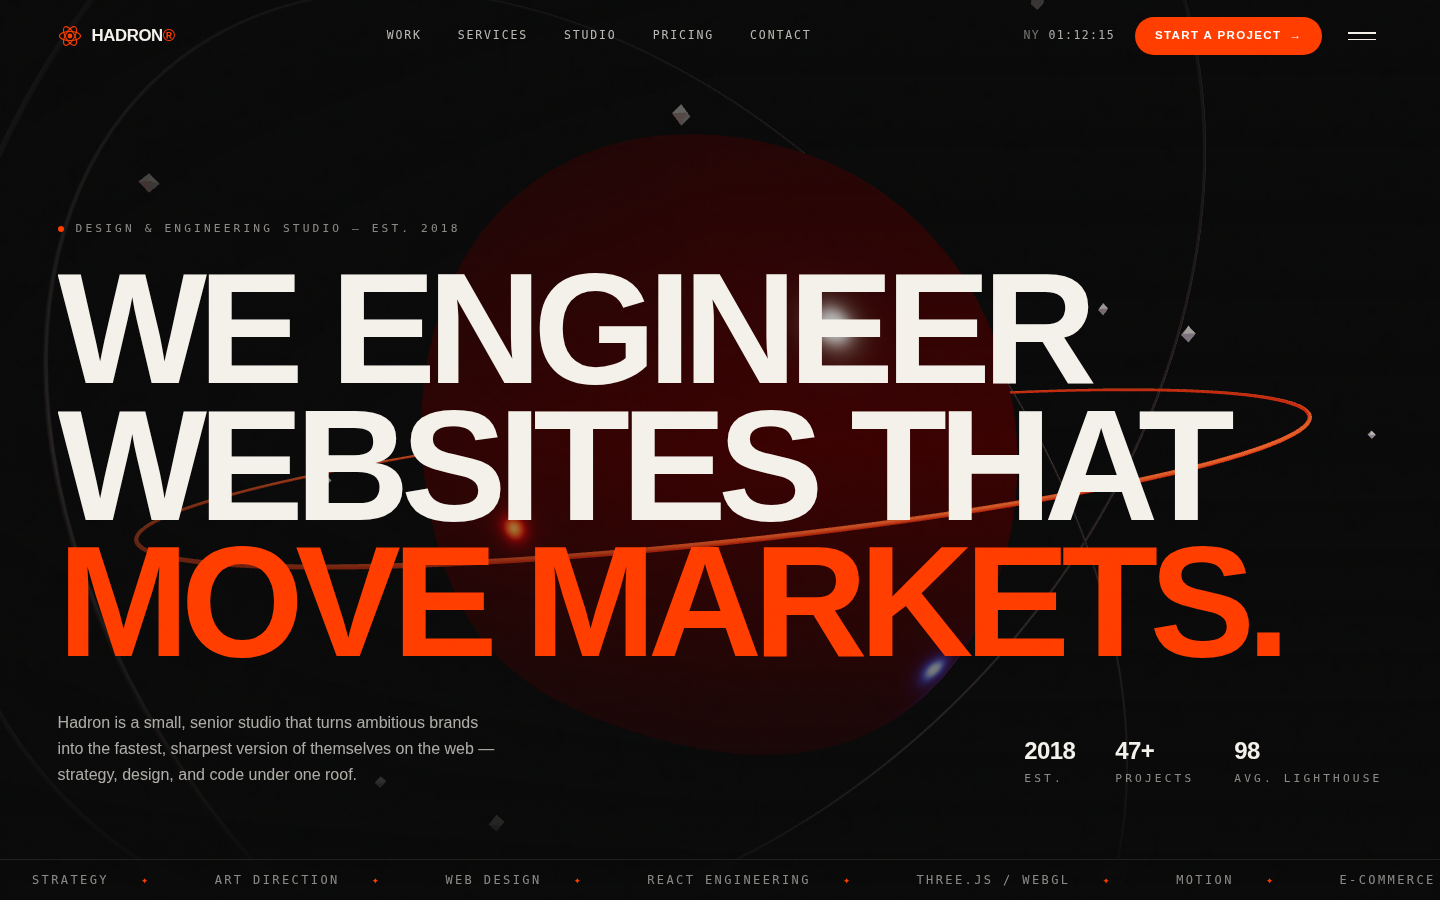
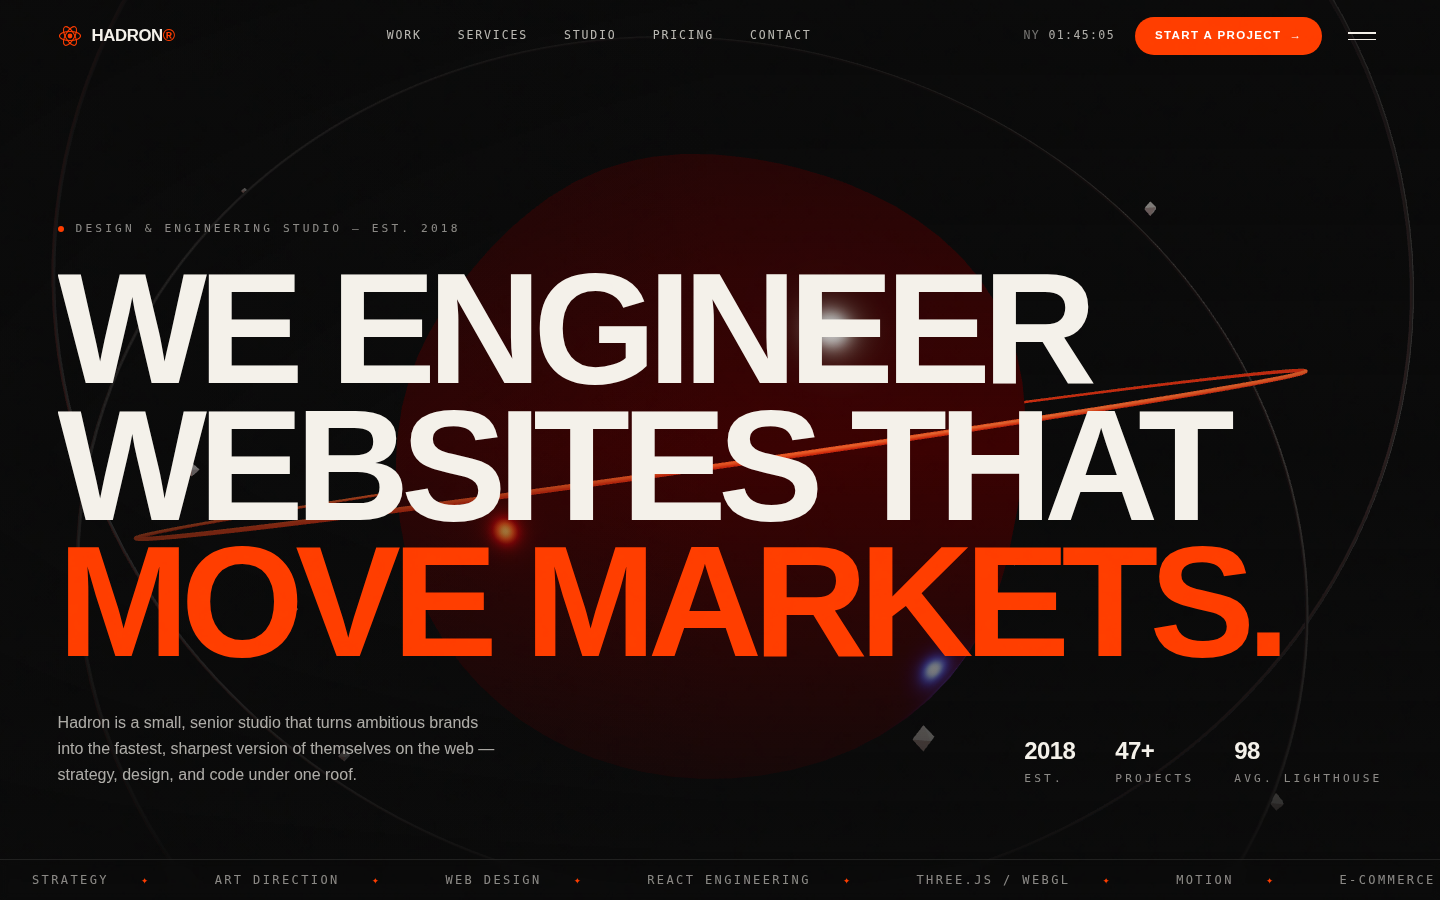
Polish pass: brand assets, SEO, a11y, and hero resilience
- Add favicon (SVG atom mark), OG/Twitter share image, web manifest, and
  richer social meta tags
- Add robots.txt and sitemap.xml
- Add skip-to-content link and visible keyboard focus styles
- Gracefully fall back to a static hero (orbital-rings SVG) when WebGL is
  unavailable or the visitor prefers reduced motion, wrapped in an error boundary
- Add a 'Recognised by' awards strip for credibility

Claude-Session: https://claude.ai/code/session_01Li5eicvKrg6aHwKJ5koDBW

diff --git a/src/index.css b/src/index.css
@@ -33,6 +33,32 @@
     color: #fff;
   }
 
+  /* Keyboard focus must stay visible even with the custom cursor active. */
+  :focus-visible {
+    outline: 2px solid var(--ember);
+    outline-offset: 3px;
+    border-radius: 2px;
+  }
+
+  /* Skip-to-content link — revealed on keyboard focus. */
+  .skip-link {
+    position: fixed;
+    left: 1rem;
+    top: -120px;
+    z-index: 130;
+    background: var(--ember);
+    color: #fff;
+    padding: 0.65rem 1.1rem;
+    border-radius: 999px;
+    font-size: 0.75rem;
+    letter-spacing: 0.08em;
+    text-transform: uppercase;
+    transition: top 0.3s cubic-bezier(0.16, 1, 0.3, 1);
+  }
+  .skip-link:focus {
+    top: 1rem;
+  }
+
   h1, h2, h3, h4 {
     @apply font-sans font-extrabold tracking-tightest leading-[0.92];
     text-wrap: balance;

diff --git a/src/sections/Hero.jsx b/src/sections/Hero.jsx
@@ -1,7 +1,10 @@
-import { lazy, Suspense } from "react";
-import { motion } from "framer-motion";
+import { lazy, Suspense, useState } from "react";
+import { motion, useReducedMotion } from "framer-motion";
 import { hero } from "../data/content.js";
 import { Marquee } from "../components/Marquee.jsx";
+import { ErrorBoundary } from "../components/ErrorBoundary.jsx";
+import { HeroFallback } from "../three/HeroFallback.jsx";
+import { isWebGLAvailable } from "../lib/utils.js";
 
 // Isolate the heavy Three.js bundle so it loads after first paint.
 const HeroScene = lazy(() => import("../three/HeroScene.jsx"));
@@ -9,13 +12,23 @@ const HeroScene = lazy(() => import("../three/HeroScene.jsx"));
 const EASE = [0.16, 1, 0.3, 1];
 
 export function Hero() {
+  const reduceMotion = useReducedMotion();
+  // Decide once, on the client, whether to mount the 3D scene at all.
+  const [use3D] = useState(() => !reduceMotion && isWebGLAvailable());
+
   return (
     <section id="top" className="relative min-h-[100svh] w-full overflow-hidden">
-      {/* 3D background */}
+      {/* 3D background (with graceful fallback) */}
       <div className="absolute inset-0">
-        <Suspense fallback={<div className="absolute inset-0 bg-ink" />}>
-          <HeroScene />
-        </Suspense>
+        {use3D ? (
+          <ErrorBoundary fallback={<HeroFallback />}>
+            <Suspense fallback={<HeroFallback />}>
+              <HeroScene />
+            </Suspense>
+          </ErrorBoundary>
+        ) : (
+          <HeroFallback />
+        )}
       </div>
 
       {/* Legibility vignette */}

diff --git a/src/three/HeroFallback.jsx b/src/three/HeroFallback.jsx
@@ -1,0 +1,24 @@
+/**
+ * Static, dependency-free hero backdrop shown when WebGL is unavailable, while
+ * the 3D scene loads, or for visitors who prefer reduced motion. It mirrors the
+ * orbital-rings motif so the brand reads even without Three.js.
+ */
+export function HeroFallback() {
+  return (
+    <div className="absolute inset-0 flex items-center justify-center overflow-hidden bg-ink">
+      <div className="absolute h-[55vh] w-[55vh] rounded-full bg-ember/20 blur-[140px]" />
+      <svg
+        viewBox="0 0 400 400"
+        className="h-[88vh] w-[88vh] max-w-none opacity-80"
+        aria-hidden
+      >
+        <g fill="none" strokeWidth="1">
+          <ellipse cx="200" cy="200" rx="170" ry="64" stroke="#ff3d00" opacity="0.9" />
+          <ellipse cx="200" cy="200" rx="170" ry="64" stroke="#4a4a4a" transform="rotate(60 200 200)" />
+          <ellipse cx="200" cy="200" rx="170" ry="64" stroke="#6b6b6b" transform="rotate(120 200 200)" />
+        </g>
+        <circle cx="200" cy="200" r="22" fill="#141414" stroke="#ff3d00" strokeWidth="1.2" />
+      </svg>
+    </div>
+  );
+}

diff --git a/src/sections/Awards.jsx b/src/sections/Awards.jsx
@@ -1,0 +1,23 @@
+import { awards } from "../data/content.js";
+import { Reveal } from "../components/Reveal.jsx";
+
+export function Awards() {
+  return (
+    <section className="relative border-t border-bone/10 bg-ink">
+      <div className="shell py-14">
+        <div className="flex flex-col gap-8 md:flex-row md:items-center md:justify-between">
+          <span className="eyebrow shrink-0">Recognised by</span>
+          <div className="grid flex-1 grid-cols-2 gap-x-8 gap-y-6 md:grid-cols-4 md:gap-x-12">
+            {awards.map((a, i) => (
+              <Reveal key={a.name} delay={i * 0.06} className="flex flex-col">
+                <span className="text-lg font-bold tracking-tight">{a.name}</span>
+                <span className="mt-1 text-sm text-bone/55">{a.detail}</span>
+                <span className="mt-0.5 font-mono text-xs text-ember">{a.year}</span>
+              </Reveal>
+            ))}
+          </div>
+        </div>
+      </div>
+    </section>
+  );
+}

diff --git a/src/components/ErrorBoundary.jsx b/src/components/ErrorBoundary.jsx
@@ -1,0 +1,22 @@
+import { Component } from "react";
+
+/** Catches render errors in its subtree and shows `fallback` instead of crashing. */
+export class ErrorBoundary extends Component {
+  constructor(props) {
+    super(props);
+    this.state = { hasError: false };
+  }
+
+  static getDerivedStateFromError() {
+    return { hasError: true };
+  }
+
+  componentDidCatch(error) {
+    if (import.meta.env.DEV) console.error("[ErrorBoundary]", error);
+  }
+
+  render() {
+    if (this.state.hasError) return this.props.fallback ?? null;
+    return this.props.children;
+  }
+}

diff --git a/index.html b/index.html
@@ -5,6 +5,11 @@
     <meta name="viewport" content="width=device-width, initial-scale=1.0, viewport-fit=cover" />
     <meta name="theme-color" content="#0a0a0a" />
 
+    <link rel="icon" type="image/svg+xml" href="/favicon.svg" />
+    <link rel="mask-icon" href="/favicon.svg" color="#ff3d00" />
+    <link rel="apple-touch-icon" href="/favicon.svg" />
+    <link rel="manifest" href="/site.webmanifest" />
+
     <title>Hadron Studio — We engineer websites that move markets</title>
     <meta
       name="description"
@@ -20,6 +25,14 @@
       content="A design & engineering studio building high-impact websites for ambitious brands."
     />
     <meta property="og:site_name" content="Hadron Studio" />
+    <meta property="og:image" content="/og.png" />
+    <meta property="og:image:alt" content="Hadron Studio — we engineer websites that move markets" />
+
+    <!-- Twitter -->
+    <meta name="twitter:card" content="summary_large_image" />
+    <meta name="twitter:title" content="Hadron Studio — We engineer websites that move markets" />
+    <meta name="twitter:description" content="A design & engineering studio building high-impact websites for ambitious brands." />
+    <meta name="twitter:image" content="/og.png" />
 
     <link rel="preconnect" href="https://fonts.googleapis.com" />
     <link rel="preconnect" href="https://fonts.gstatic.com" crossorigin />

diff --git a/src/lib/utils.js b/src/lib/utils.js
@@ -15,3 +15,16 @@ export const lerp = (a, b, t) => a + (b - a) * t;
 /** Map a value from one range to another. */
 export const mapRange = (v, inMin, inMax, outMin, outMax) =>
   outMin + ((v - inMin) * (outMax - outMin)) / (inMax - inMin);
+
+/** Feature-detect WebGL so we can fall back gracefully when it's unavailable. */
+export function isWebGLAvailable() {
+  try {
+    const canvas = document.createElement("canvas");
+    return !!(
+      window.WebGLRenderingContext &&
+      (canvas.getContext("webgl") || canvas.getContext("experimental-webgl"))
+    );
+  } catch {
+    return false;
+  }
+}

diff --git a/src/App.jsx b/src/App.jsx
@@ -14,6 +14,7 @@ import { Services } from "./sections/Services.jsx";
 import { Work } from "./sections/Work.jsx";
 import { Process } from "./sections/Process.jsx";
 import { Stats } from "./sections/Stats.jsx";
+import { Awards } from "./sections/Awards.jsx";
 import { Pricing } from "./sections/Pricing.jsx";
 import { Testimonials } from "./sections/Testimonials.jsx";
 import { Clients } from "./sections/Clients.jsx";
@@ -27,19 +28,23 @@ export default function App() {
 
   return (
     <>
+      <a href="#main-content" className="skip-link">
+        Skip to content
+      </a>
       <Preloader onDone={() => setLoaded(true)} />
       <Cursor />
       <Grain />
       <ScrollProgress />
       <Navbar />
 
-      <main className={loaded ? "opacity-100" : "opacity-0"}>
+      <main id="main-content" className={loaded ? "opacity-100" : "opacity-0"}>
         <Hero />
         <Manifesto />
         <Services />
         <Work />
         <Process />
         <Stats />
+        <Awards />
         <Clients />
         <Pricing />
         <Testimonials />

diff --git a/src/data/content.js b/src/data/content.js
@@ -201,6 +201,13 @@ export const clients = [
   "Outside", "Juvédé", "Zaine", "Wall Out", "Geaton", "Skate Dept.", "Northbound", "Atelier 9", "Forma",
 ];
 
+export const awards = [
+  { name: "Awwwards", detail: "Site of the Day ×4", year: "2025" },
+  { name: "CSS Design Awards", detail: "Best UI / UX", year: "2025" },
+  { name: "FWA", detail: "Site of the Day", year: "2024" },
+  { name: "Webby", detail: "Honoree", year: "2024" },
+];
+
 export const faqs = [
   {
     q: "How long does a typical project take?",